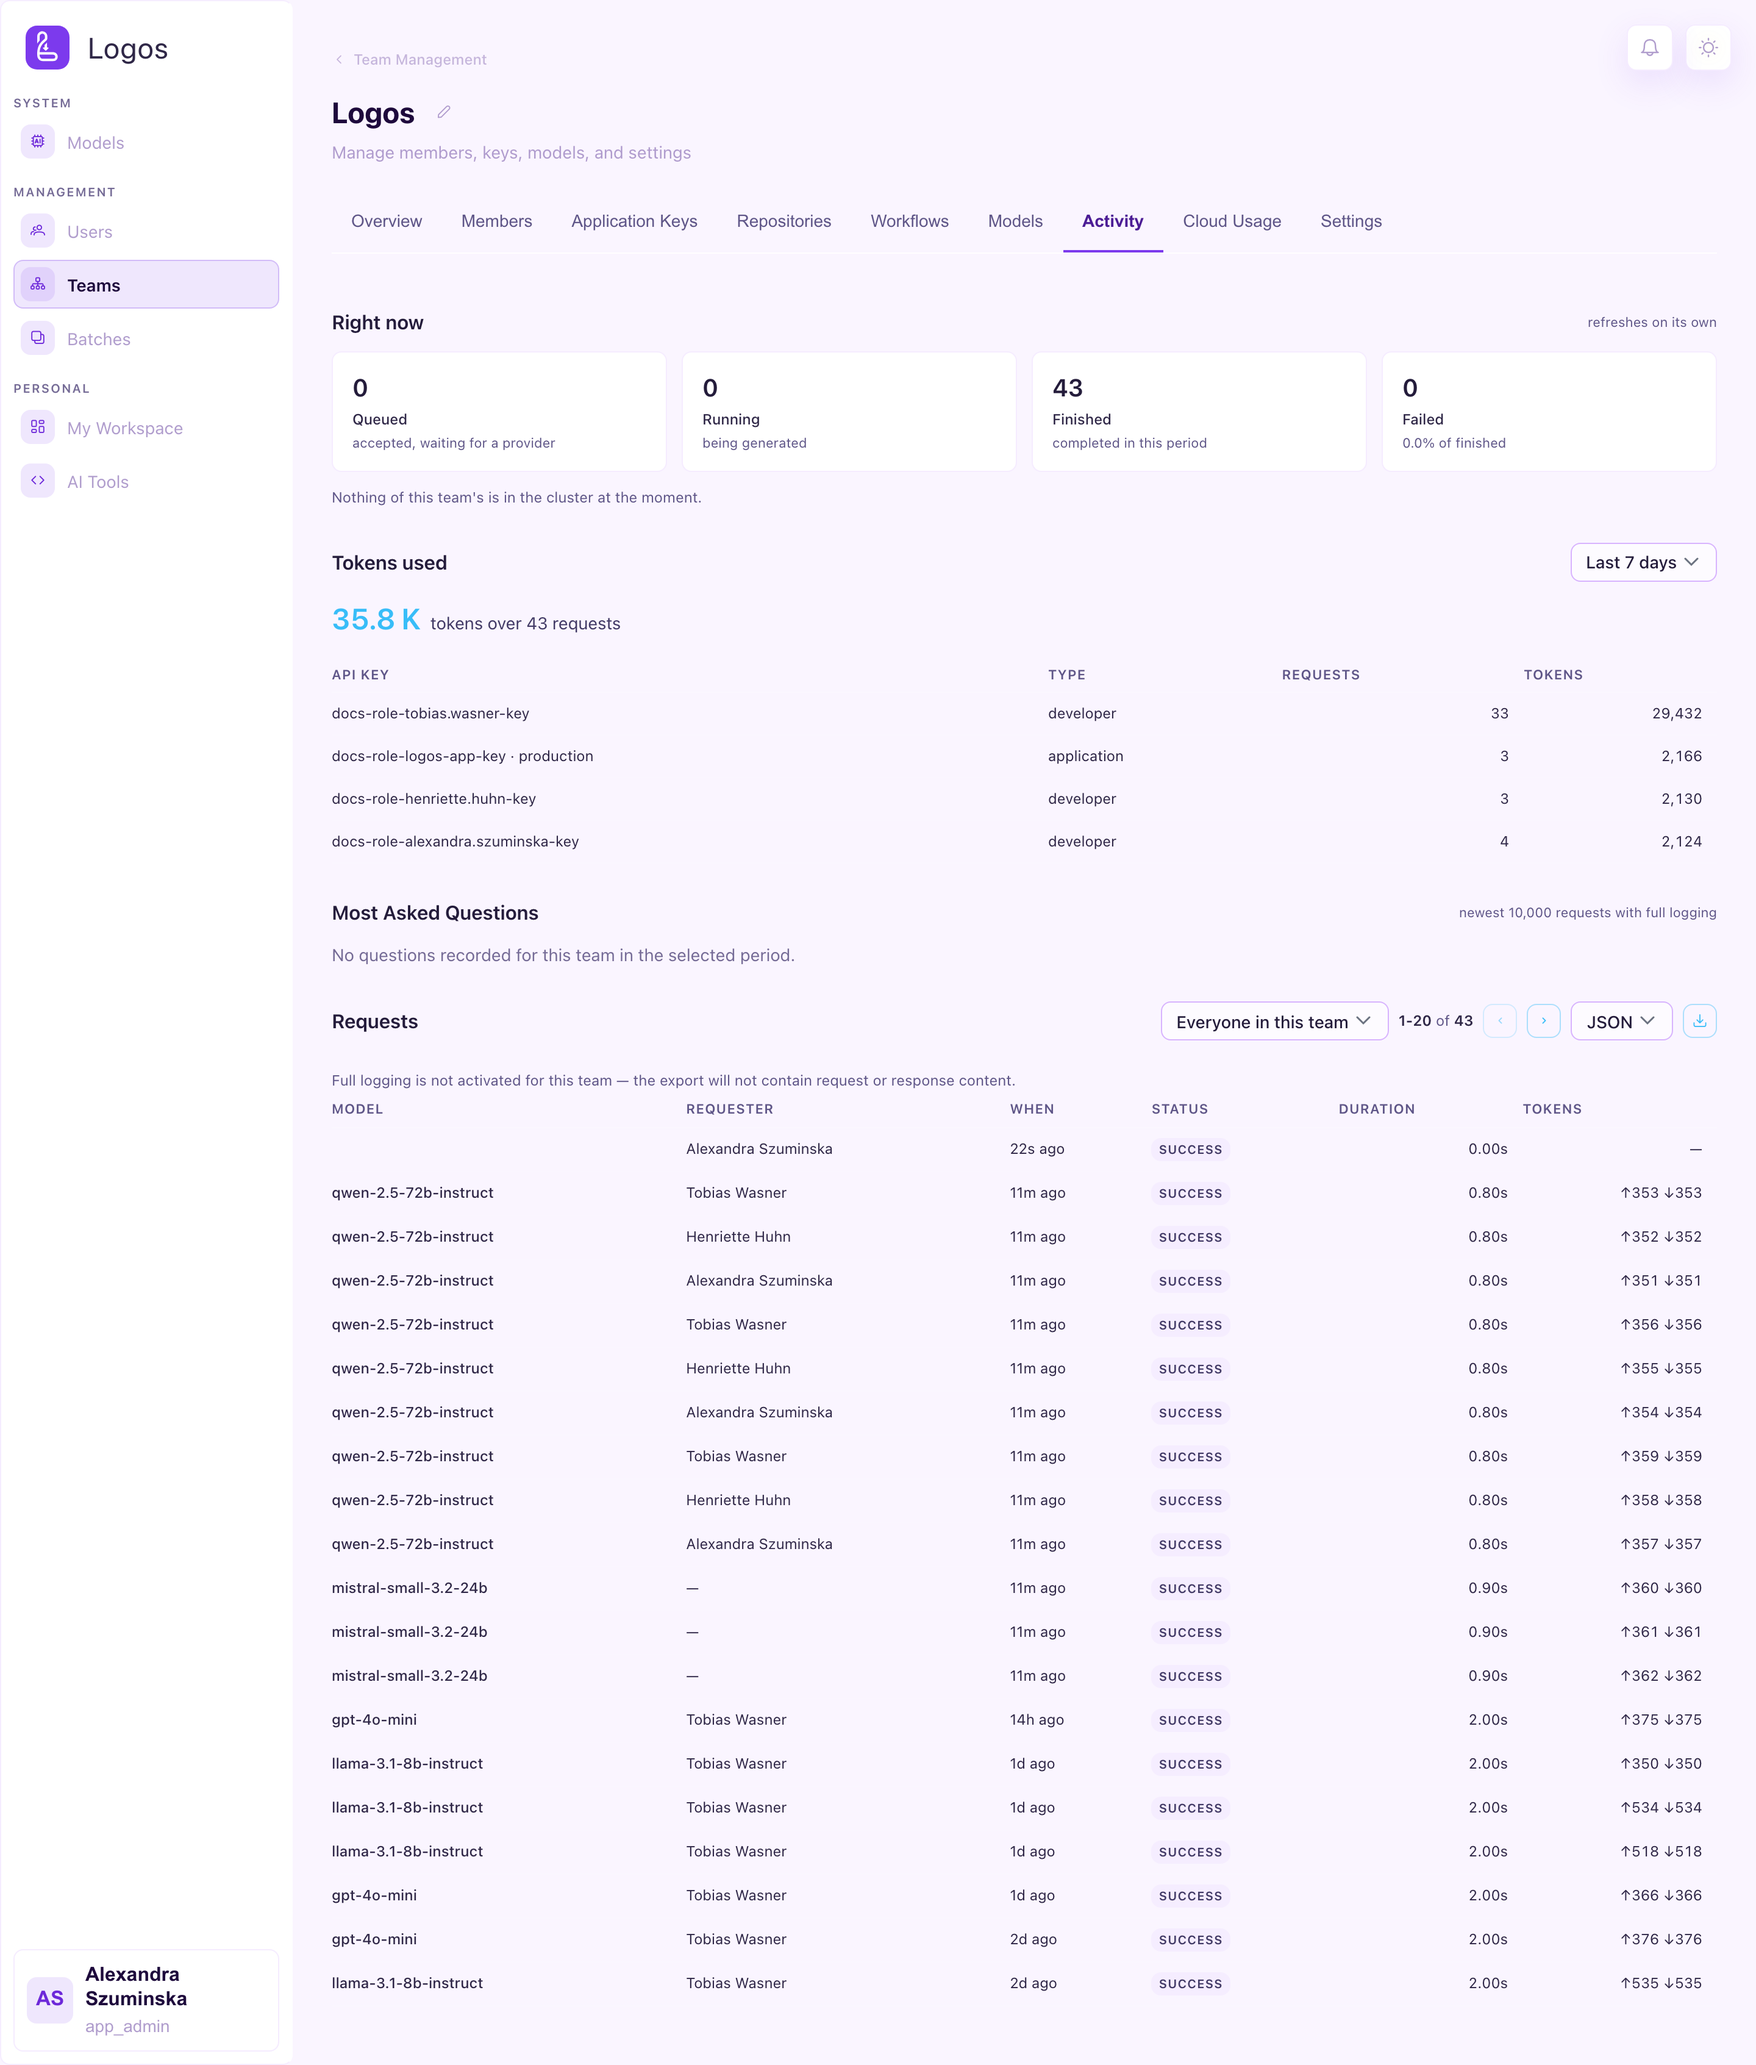
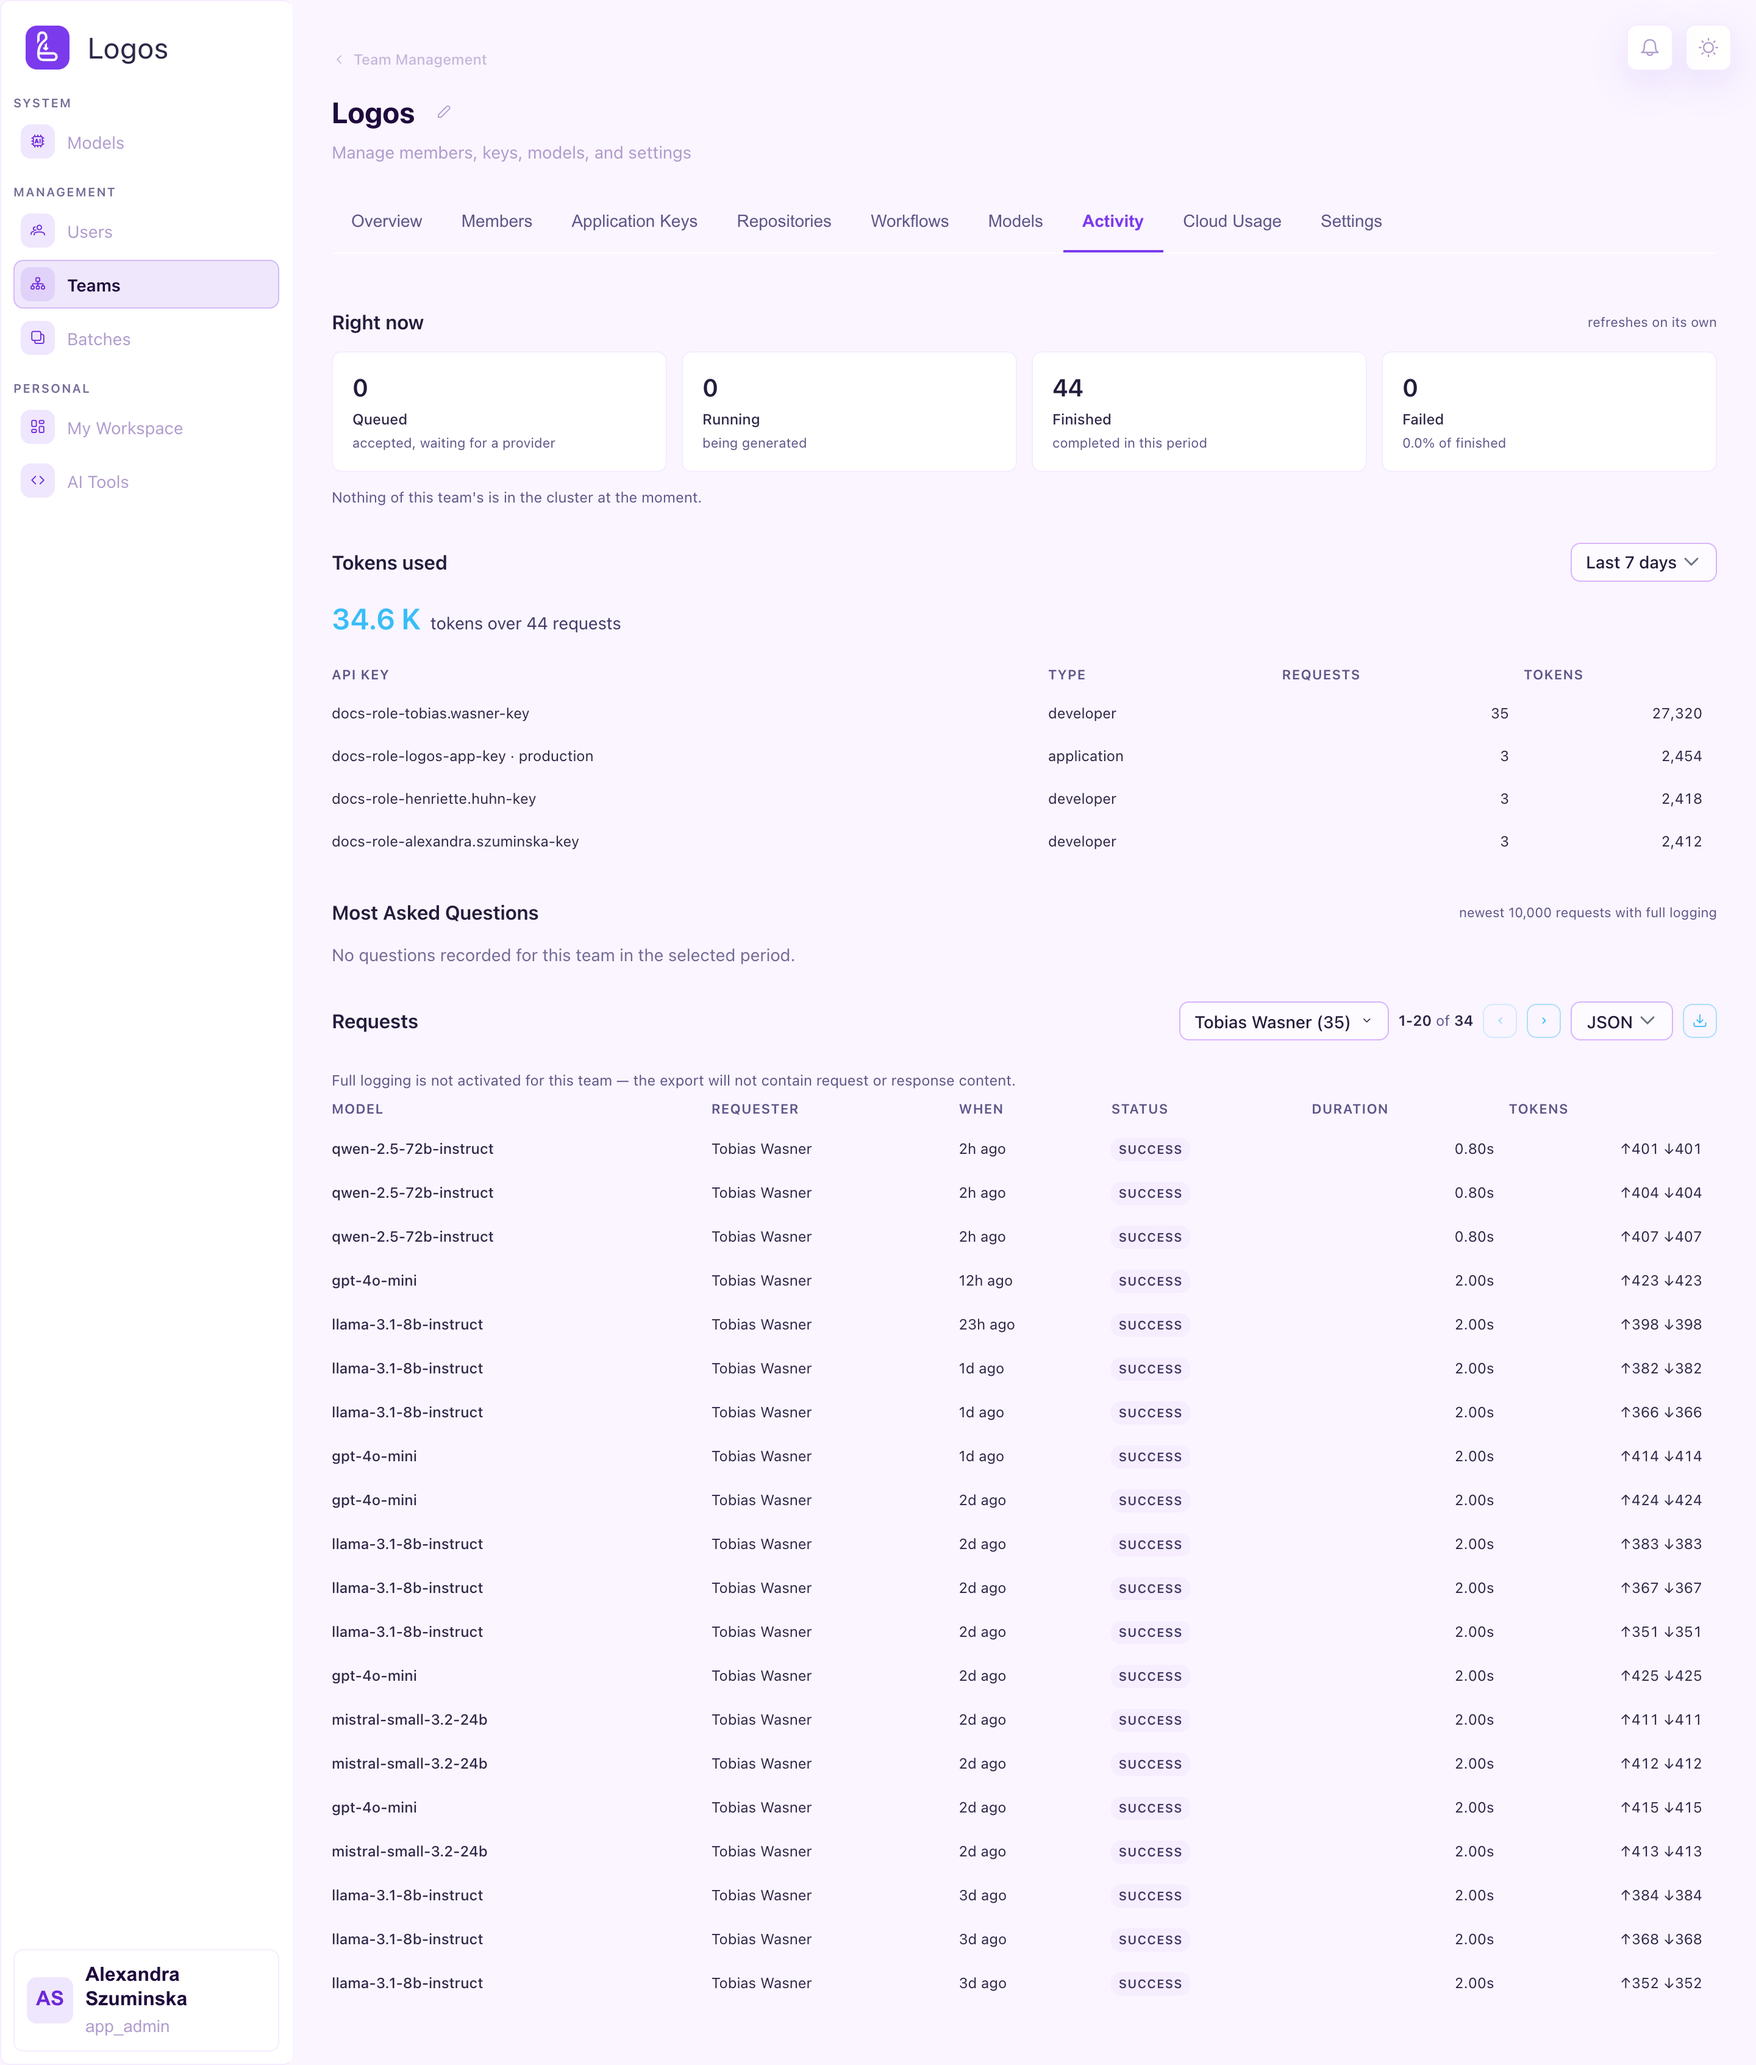
Make team owners and activity requesters searchable

diff --git a/logos-ui/src/app/features/team-management/team-management.spec.ts b/logos-ui/src/app/features/team-management/team-management.spec.ts
@@ -204,6 +204,44 @@ describe('TeamManagement', () => {
     component.createPrivacy.set('EU');
     expect(component.createValid()).toBe(true);
   });
+
+  it('filters owner checkboxes by name or username and submits selections hidden by a later search', async () => {
+    teamService.getAdminUsers.mockResolvedValue([
+      { id: 12, username: 'river', prename: 'Alex', name: 'Stone' },
+      { id: 27, username: 'mtran', prename: 'Mai', name: 'Tran' },
+    ]);
+    await createFor('logos_admin');
+    component.openCreateDialog();
+    fixture.detectChanges();
+    const group = document.querySelector<HTMLElement>('[role="group"][aria-labelledby="new-team-owners"]')!;
+    const search = group.querySelector<HTMLInputElement>('input[type="text"]')!;
+    const boxes = () => Array.from(group.querySelectorAll<HTMLInputElement>('input[type="checkbox"]'));
+    const type = (query: string) => {
+      search.value = query;
+      search.dispatchEvent(new Event('input'));
+      fixture.detectChanges();
+    };
+
+    expect(boxes()).toHaveLength(2);
+    type('iVe');
+    expect(boxes()).toHaveLength(1);
+    boxes()[0].click();
+    type('unmatched');
+    expect(group.textContent).toContain('No matching owners.');
+    type(' trA ');
+    boxes()[0].click();
+    type('');
+    expect(boxes().map(box => box.checked)).toEqual([true, true]);
+    component.createName.set('Search team');
+    expect(component.createValid()).toBe(false);
+    component.createPrivacy.set('LOCAL');
+    type('mai');
+    await component.submitCreate();
+    expect(teamService.createTeam).toHaveBeenCalledWith('Search team', [12, 27], 'LOCAL');
+    component.openCreateDialog();
+    expect(component.ownerSearch()).toBe('');
+    expect(component.createOwnerIds()).toEqual([]);
+  });
   it('rolls back and reports when saving fails', async () => {
     await createFor('logos_admin');
     teamService.updateTeamPriority.mockRejectedValue(new Error('boom'));

diff --git a/logos-ui/src/app/features/team-detail/tabs/activity/activity-tab.spec.ts b/logos-ui/src/app/features/team-detail/tabs/activity/activity-tab.spec.ts
@@ -172,6 +172,27 @@ describe('ActivityTabComponent', () => {
   });
 
   describe('requester options', () => {
+    it('searches requester names and passes the selected user ID to the activity service', async () => {
+      component.teamId = 2001;
+      component.activity.set(makePayload({ requesters: [
+        { id: 11, label: 'Test User', requestCount: 40 },
+        { id: 24, label: 'Mai Tran', requestCount: 3 },
+      ] }));
+      fixture.detectChanges();
+      fixture.nativeElement.querySelector('button[aria-label^="Filter by requester"]').click();
+      fixture.detectChanges();
+      const menu = document.querySelector<HTMLElement>('[role="dialog"][aria-label="Requesters filter"]')!;
+      const search = menu.querySelector<HTMLInputElement>('input')!;
+      search.value = 'rAn';
+      search.dispatchEvent(new Event('input'));
+      fixture.detectChanges();
+      const results = menu.querySelectorAll('button');
+      expect(results).toHaveLength(1);
+      expect(results[0].textContent).toContain('Mai Tran');
+      results[0].click();
+      await vi.waitFor(() => expect(getActivity).toHaveBeenCalledWith(2001, 7, { userId: 24, cursor: null }));
+    });
+
     it('offers everyone first, then each requester with its count', () => {
       // The count is what tells the owner which entry is worth opening; the
       // empty entry is the way back out of a filter.

diff --git a/logos-ui/src/app/features/team-management/team-management.html b/logos-ui/src/app/features/team-management/team-management.html
@@ -177,10 +177,15 @@
     </div>
 
     @if (adminUsers().length > 0) {
-      <div class="form-field">
-        <label class="field-label">Owners</label>
+      <div class="form-field" role="group" aria-labelledby="new-team-owners">
+        <span id="new-team-owners" class="field-label">Owners</span>
+        <app-search-input
+          placeholder="Search owners…"
+          [value]="ownerSearch()"
+          (valueChange)="ownerSearch.set($event)"
+        />
         <div class="owner-list">
-          @for (user of adminUsers(); track user.id) {
+          @for (user of filteredOwners(); track user.id) {
             <label class="owner-option" [class.owner-option--selected]="isOwnerSelected(user.id)">
               <input
                 type="checkbox"
@@ -191,6 +196,8 @@
               />
               <span class="owner-username">{{ displayName(user) }}</span>
             </label>
+          } @empty {
+            <span class="field-hint" role="status">No matching owners.</span>
           }
         </div>
       </div>

diff --git a/logos-ui/src/app/features/team-detail/tabs/activity/activity-tab.ts b/logos-ui/src/app/features/team-detail/tabs/activity/activity-tab.ts
@@ -13,6 +13,7 @@ import { CommonModule } from '@angular/common';
 
 import { HttpResponse } from '@angular/common/http';
 import { AppSelectOption, SelectComponent } from '../../../../shared/components/select/select';
+import { SearchableSelectComponent } from '../../../../shared/components/searchable-select/searchable-select';
 import { RequestItem } from '../../../statistics/statistics.models';
 import { deriveStage, formatTimeAgo, formatTokenCount } from '../../../statistics/statistics.utils';
 import { TeamActivityService } from './activity-tab.service';
@@ -42,7 +43,7 @@ const DAY_OPTIONS: AppSelectOption[] = [
 @Component({
   selector: 'app-activity-tab',
   standalone: true,
-  imports: [CommonModule, SelectComponent, MostAskedQuestions],
+  imports: [CommonModule, SelectComponent, SearchableSelectComponent, MostAskedQuestions],
   templateUrl: './activity-tab.html',
   changeDetection: ChangeDetectionStrategy.Eager,
   styleUrl: './activity-tab.scss',

diff --git a/logos-ui/src/app/features/team-management/team-management.ts b/logos-ui/src/app/features/team-management/team-management.ts
@@ -60,6 +60,8 @@ export class TeamManagement implements OnInit {
   createOpen = signal(false);
   createName = signal('');
   createOwnerIds = signal<number[]>([]);
+  ownerSearch = signal('');
+  readonly filteredOwners = computed(() => this.adminUsers().filter(user => userMatchesQuery(user, this.ownerSearch())));
   readonly privacyLabels = TEAM_PRIVACY;
   readonly privacyOptions = TEAM_PRIVACY_OPTIONS;
   createPrivacy = signal<TeamPrivacy | ''>('');
@@ -247,6 +249,7 @@ export class TeamManagement implements OnInit {
   openCreateDialog(): void {
     this.createName.set('');
     this.createOwnerIds.set([]);
+    this.ownerSearch.set('');
     this.createPrivacy.set('');
     this.createError.set('');
     this.createOpen.set(true);

diff --git a/logos-ui/src/app/features/team-detail/tabs/activity/activity-tab.html b/logos-ui/src/app/features/team-detail/tabs/activity/activity-tab.html
@@ -118,11 +118,11 @@
     <div class="ac-section-head ac-section-head--spaced">
       <h3 class="ac-section-title">Requests</h3>
       <div class="ac-toolbar">
-        <app-select
+        <app-searchable-select
           class="ac-control"
+          label="Requesters"
           [options]="requesterOptions()"
           [value]="selectedRequesterValue()"
-          [compact]="true"
           ariaLabel="Filter by requester"
           (valueChange)="setRequester($event)"
         />

diff --git a/docs/AGENTS.md b/docs/AGENTS.md
@@ -353,7 +353,7 @@ flows use a **concept** name (no role prefix); role-only list pages keep the
 | `logos-admin-user-management.png` | `tobias.wasner` | `/user-management` | `roles/logos-admin.md` |
 | `logos-admin-team-management.png` | `tobias.wasner` | `/team-management` | `roles/logos-admin.md` |
 | `logos-admin-permission-audit.png` | `tobias.wasner` | `/permission-audit-log` | `roles/logos-admin.md#permission-audit` |
-| `logos-admin-new-team.png` | `tobias.wasner` | `/team-management` — **New Team** dialog, EU processing selected | `roles/logos-admin.md#team-privacy` |
+| `logos-admin-new-team.png` | `tobias.wasner` | `/team-management` — **New Team** dialog, EU processing and a searched owner selected | `roles/logos-admin.md#team-privacy` |
 | `logos-admin-security-incidents.png` | `tobias.wasner` | `/agents/security` — all statuses; `seed/security-incidents.sql` after the role seed | `roles/logos-admin.md#security-incidents` |
 | `logos-admin-security-repositories.png` | `tobias.wasner` | `/agents/security` — Monitored repositories expanded; `seed/security-incidents.sql` after the role seed | `roles/logos-admin.md#security-incidents` |
 | `logos-admin-security-intake.png` | `tobias.wasner` | `/agents/security` — Report an important incident expanded; `seed/security-incidents.sql` after the role seed | `roles/logos-admin.md#security-incidents` |
@@ -374,7 +374,7 @@ flows use a **concept** name (no role prefix); role-only list pages keep the
 | `team-detail-repository-agent.png` | same | `/teams/<id>` — **Repositories → Edit**, coding agent enabled and automatic workflow analysis off | `roles/app-admin.md#enable-the-coding-agent` |
 | `team-detail-workflows.png` | owner or `logos_admin` | `/teams/<id>` — **Workflows** | same |
 | `team-detail-models.png` | owner or `logos_admin` | `/teams/<id>` — **Models** | same |
-| `team-detail-activity.png` | owner or `logos_admin` | `/teams/<id>` — **Activity** | same |
+| `team-detail-activity.png` | owner or `logos_admin` | `/teams/<id>` — **Activity**, one requester selected by name | same |
 | `team-detail-cloud-usage.png` | owner or `logos_admin` | `/teams/<id>` — **Cloud Usage** | same |
 | `team-detail-settings.png` | owner or `logos_admin` | `/teams/<id>` — **Settings** | same |
 | `team-detail-providers.png` | `tobias.wasner` (`logos_admin` only) | `/teams/<id>` — **Providers** | `roles/logos-admin.md#teams` |

diff --git a/docs/roles/logos-admin.md b/docs/roles/logos-admin.md
@@ -720,9 +720,10 @@ The log starts with that team's ID as a filter.
 
 ### Team privacy
 
-In **New Team**, enter a name, choose where requests can be processed, and select any owners. Each team must have a privacy setting.
+In **New Team**, enter a name and choose where requests can be processed. Each team must have a privacy setting.
+Type part of a name or username in **Search owners**. Select each owner. Your selections stay when you change the search.
 
-![New Team with EU processing selected](/img/roles/logos-admin-new-team.png)
+![New Team with EU processing and one owner selected after a name search](/img/roles/logos-admin-new-team.png)
 
 | Team privacy | Eligible deployments |
 | --- | --- |

diff --git a/docs/roles/app-admin.md b/docs/roles/app-admin.md
@@ -239,8 +239,10 @@ This tab shows which catalogue models the team can use.
 
 This tab shows the live queue state of the team, the recent request log, the
 token totals and the export function.
+Under **Requests**, open **Everyone in this team** and type part of a requester’s name.
+Select a result to show that person’s requests.
 
-![Team detail — Activity](/img/roles/team-detail-activity.png)
+![Team activity with the request log filtered to one requester](/img/roles/team-detail-activity.png)
 
 ### Cloud Usage
 
